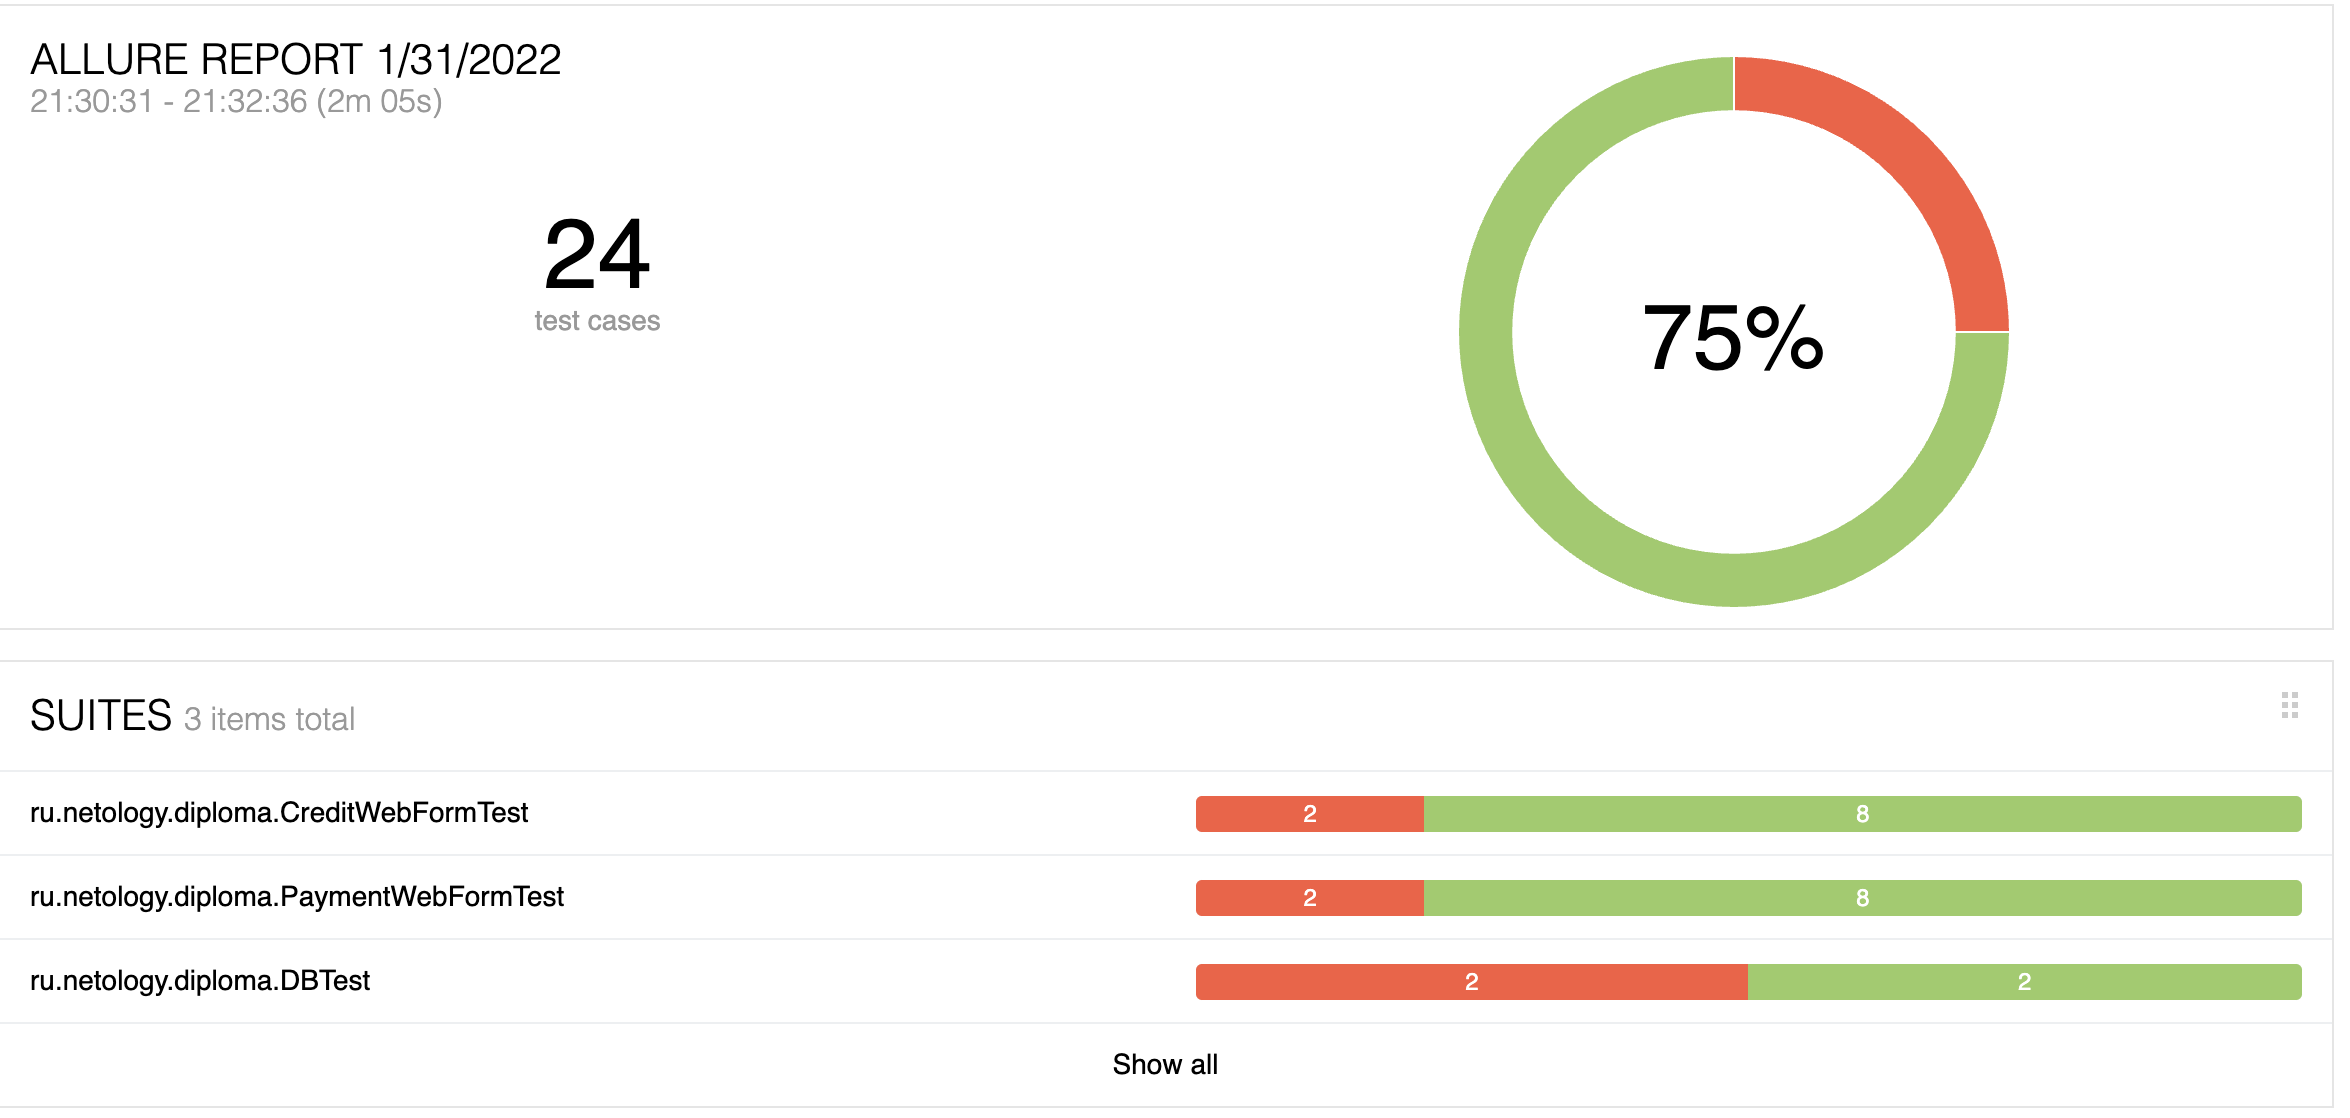
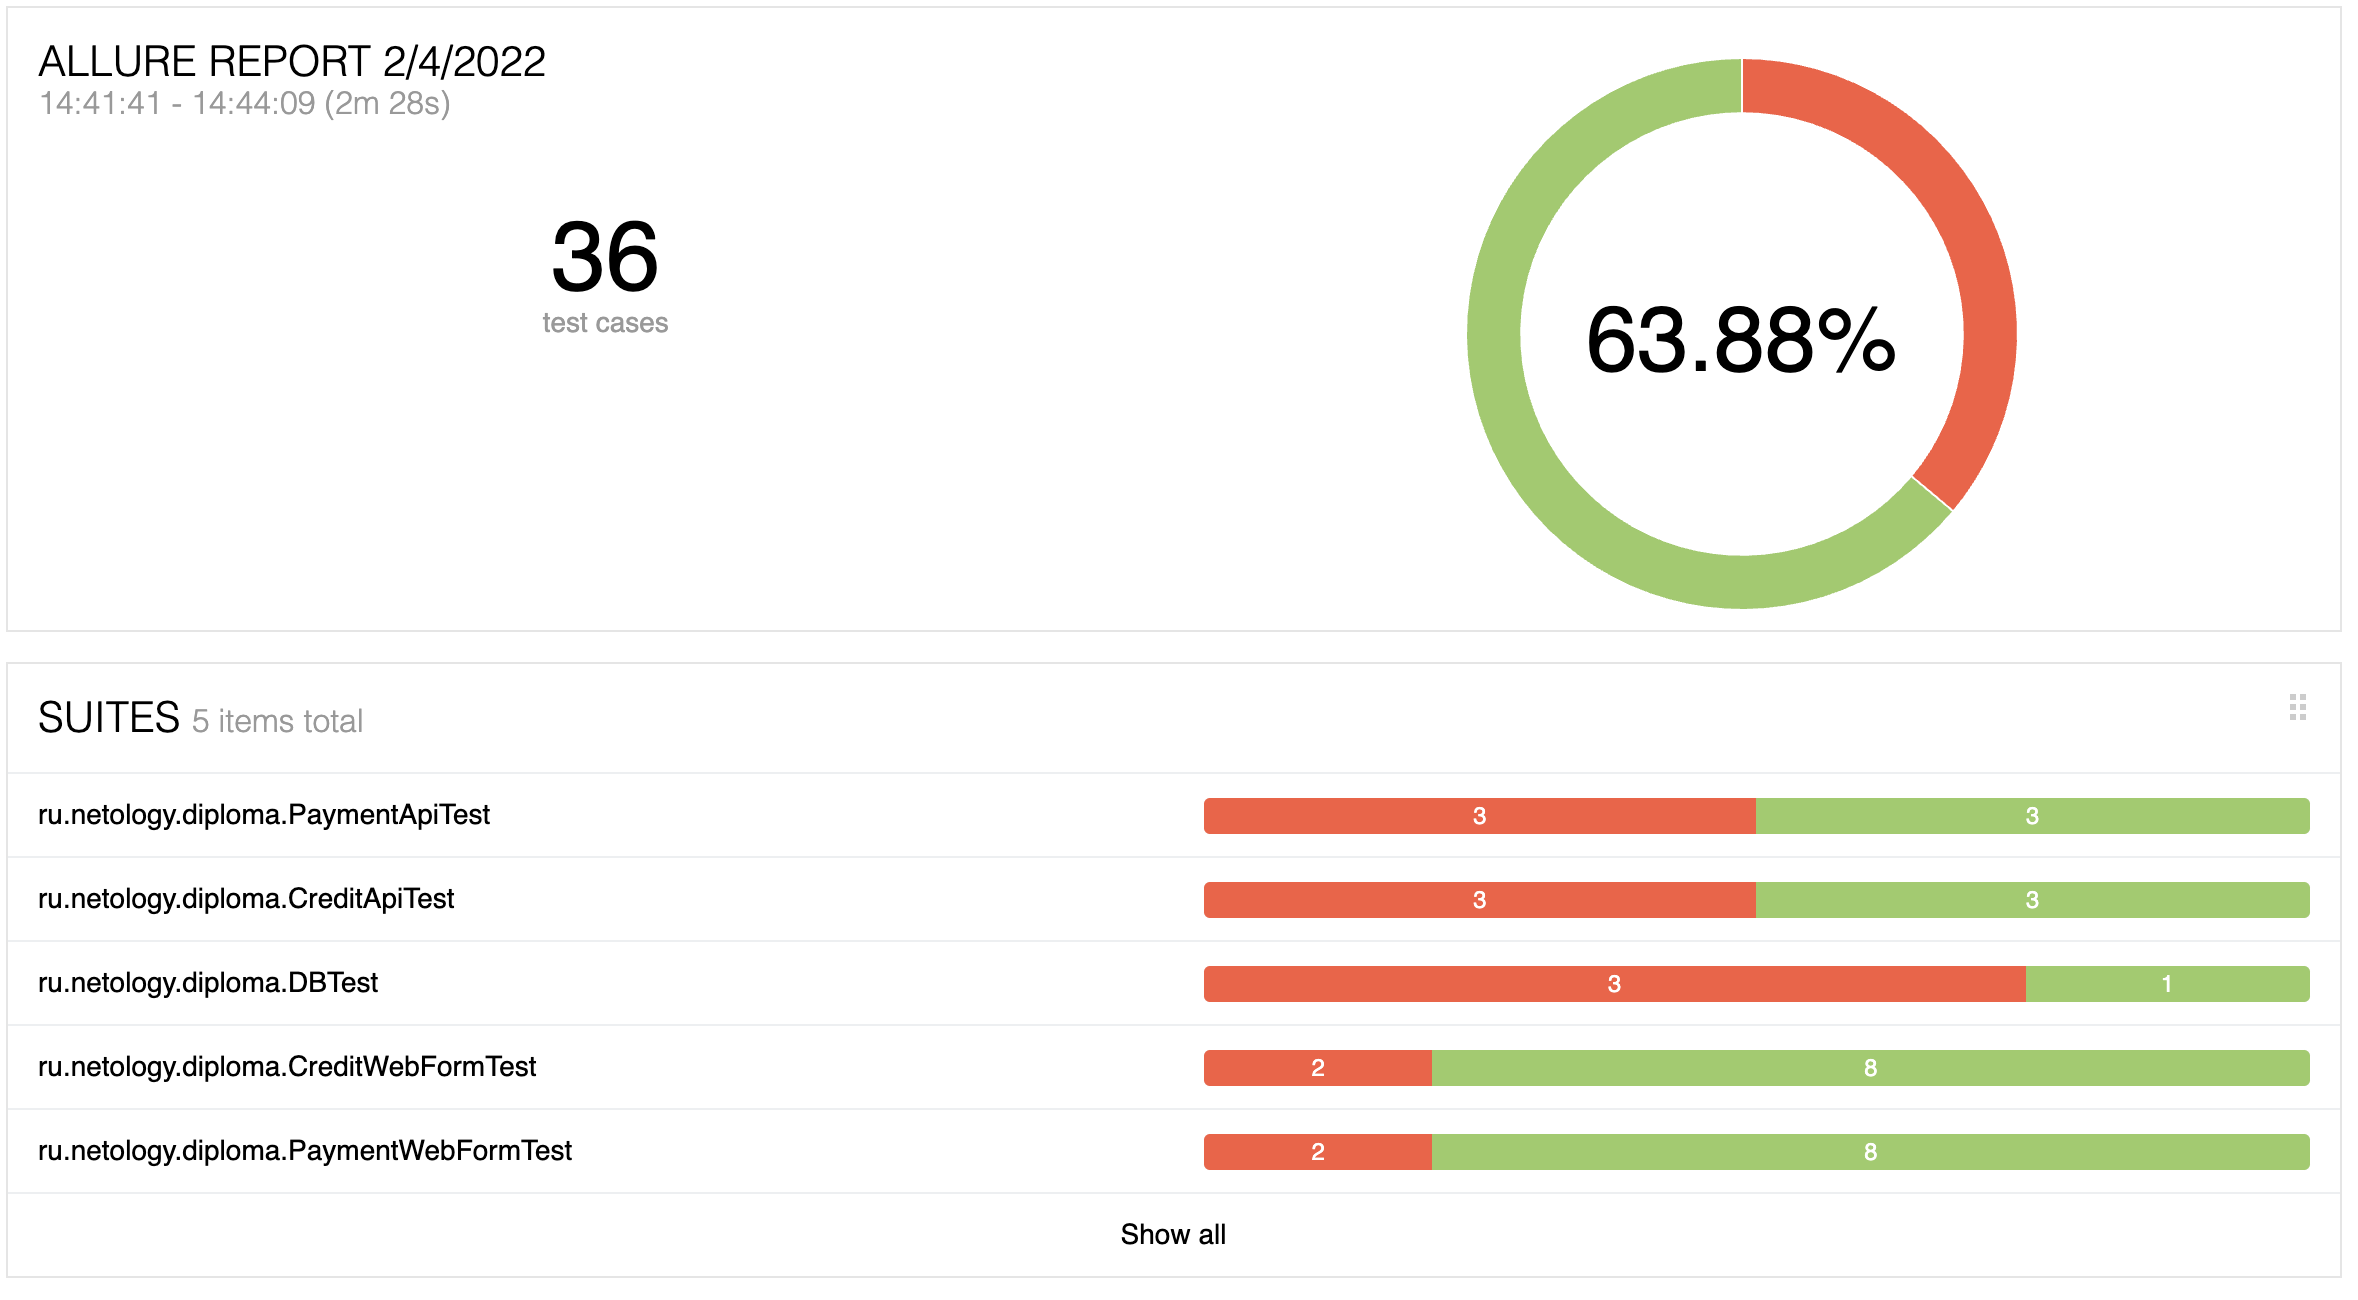
add rest api test; update report

diff --git a/src/test/java/ru/netology/diploma/CreditApiTest.java b/src/test/java/ru/netology/diploma/CreditApiTest.java
@@ -1,0 +1,109 @@
+package ru.netology.diploma;
+
+import io.restassured.http.ContentType;
+import org.junit.jupiter.api.BeforeEach;
+import org.junit.jupiter.api.Test;
+import ru.netology.diploma.model.ApiRequest;
+
+import static io.restassured.RestAssured.given;
+import static org.hamcrest.Matchers.equalTo;
+
+class CreditApiTest {
+    private ApiRequest successRequestBody;
+
+    @BeforeEach
+    void init() {
+        successRequestBody = ApiRequest.builder()
+                .number("4444 4444 4444 4441")
+                .year("23")
+                .month("09")
+                .cvc("123")
+                .holder("IVAN IVANOV")
+                .build();
+    }
+    @Test
+    void successfulCreditRequestTest() {
+        given()
+                .baseUri("http://localhost:8080")
+                .when()
+                .body(successRequestBody)
+                .header("Content-Type", "application/json")
+                .header("Accept",  "*/*")
+                .post("/api/v1/credit")
+                .then()
+                .statusCode(200)
+                .body("status", equalTo("APPROVED"))
+                .contentType(ContentType.JSON);
+    }
+    @Test
+    void unsuccessfulCreditRequestTest() {
+        successRequestBody.setNumber("4444 4444 4444 4442");
+        given()
+                .baseUri("http://localhost:8080")
+                .when()
+                .body(successRequestBody)
+                .header("Content-Type", "application/json")
+                .header("Accept",  "*/*")
+                .post("/api/v1/credit")
+                .then()
+                .statusCode(200)
+                .body("status", equalTo("DECLINED"))
+                .contentType(ContentType.JSON);
+    }
+
+    @Test
+    void incorrectCardNumberCreditRequestTest() {
+        successRequestBody.setNumber("4444 4444 4XX4 4441");
+        given()
+                .baseUri("http://localhost:8080")
+                .when()
+                .body(successRequestBody)
+                .header("Content-Type", "application/json")
+                .header("Accept",  "*/*")
+                .post("/api/v1/credit")
+                .then()
+                .statusCode(500);
+    }
+
+    @Test
+    void incorrectYearCreditRequestTest() {
+        successRequestBody.setYear("19");
+        given()
+                .baseUri("http://localhost:8080")
+                .when()
+                .body(successRequestBody)
+                .header("Content-Type", "application/json")
+                .header("Accept",  "*/*")
+                .post("/api/v1/credit")
+                .then()
+                .statusCode(500);
+    }
+
+    @Test
+    void incorrectMonthCreditRequestTest() {
+        successRequestBody.setMonth("36");
+        given()
+                .baseUri("http://localhost:8080")
+                .when()
+                .body(successRequestBody)
+                .header("Content-Type", "application/json")
+                .header("Accept",  "*/*")
+                .post("/api/v1/credit")
+                .then()
+                .statusCode(500);
+    }
+
+    @Test
+    void incorrectCvcCreditRequestTest() {
+        successRequestBody.setCvc("36");
+        given()
+                .baseUri("http://localhost:8080")
+                .when()
+                .body(successRequestBody)
+                .header("Content-Type", "application/json")
+                .header("Accept",  "*/*")
+                .post("/api/v1/credit")
+                .then()
+                .statusCode(500);
+    }
+}

diff --git a/src/test/java/ru/netology/diploma/PaymentApiTest.java b/src/test/java/ru/netology/diploma/PaymentApiTest.java
@@ -1,0 +1,109 @@
+package ru.netology.diploma;
+
+import io.restassured.http.ContentType;
+import org.junit.jupiter.api.BeforeEach;
+import org.junit.jupiter.api.Test;
+import ru.netology.diploma.model.ApiRequest;
+
+import static io.restassured.RestAssured.given;
+import static org.hamcrest.Matchers.equalTo;
+
+class PaymentApiTest {
+    private ApiRequest successRequestBody;
+
+    @BeforeEach
+    void init() {
+        successRequestBody = ApiRequest.builder()
+                .number("4444 4444 4444 4441")
+                .year("23")
+                .month("09")
+                .cvc("123")
+                .holder("IVAN IVANOV")
+                .build();
+    }
+    @Test
+    void successfulRequestTest() {
+        given()
+                .baseUri("http://localhost:8080")
+                .when()
+                .body(successRequestBody)
+                .header("Content-Type", "application/json")
+                .header("Accept",  "*/*")
+                .post("/api/v1/pay")
+                .then()
+                .statusCode(200)
+                .body("status", equalTo("APPROVED"))
+                .contentType(ContentType.JSON);
+    }
+    @Test
+    void unsuccessfulRequestTest() {
+        successRequestBody.setNumber("4444 4444 4444 4442");
+        given()
+                .baseUri("http://localhost:8080")
+                .when()
+                .body(successRequestBody)
+                .header("Content-Type", "application/json")
+                .header("Accept",  "*/*")
+                .post("/api/v1/pay")
+                .then()
+                .statusCode(200)
+                .body("status", equalTo("DECLINED"))
+                .contentType(ContentType.JSON);
+    }
+
+    @Test
+    void incorrectCardNumberRequestTest() {
+        successRequestBody.setNumber("4444 4444 4XX4 4441");
+        given()
+                .baseUri("http://localhost:8080")
+                .when()
+                .body(successRequestBody)
+                .header("Content-Type", "application/json")
+                .header("Accept",  "*/*")
+                .post("/api/v1/pay")
+                .then()
+                .statusCode(500);
+    }
+
+    @Test
+    void incorrectYearRequestTest() {
+        successRequestBody.setYear("19");
+        given()
+                .baseUri("http://localhost:8080")
+                .when()
+                .body(successRequestBody)
+                .header("Content-Type", "application/json")
+                .header("Accept",  "*/*")
+                .post("/api/v1/pay")
+                .then()
+                .statusCode(500);
+    }
+
+    @Test
+    void incorrectMonthRequestTest() {
+        successRequestBody.setMonth("36");
+        given()
+                .baseUri("http://localhost:8080")
+                .when()
+                .body(successRequestBody)
+                .header("Content-Type", "application/json")
+                .header("Accept",  "*/*")
+                .post("/api/v1/pay")
+                .then()
+                .statusCode(500);
+    }
+
+    @Test
+    void incorrectCvcRequestTest() {
+        successRequestBody.setCvc(null);
+        given()
+                .baseUri("http://localhost:8080")
+                .when()
+                .body(successRequestBody)
+                .header("Content-Type", "application/json")
+                .header("Accept",  "*/*")
+                .post("/api/v1/pay")
+                .then()
+                .statusCode(500);
+    }
+}

diff --git a/src/test/java/ru/netology/diploma/CreditWebFormTest.java b/src/test/java/ru/netology/diploma/CreditWebFormTest.java
@@ -6,6 +6,9 @@ import org.junit.jupiter.api.Test;
 import org.junit.jupiter.params.ParameterizedTest;
 import org.junit.jupiter.params.provider.Arguments;
 import org.junit.jupiter.params.provider.MethodSource;
+import ru.netology.diploma.model.CreditFormPage;
+import ru.netology.diploma.model.FormFiller;
+import ru.netology.diploma.model.FormPage;
 
 import java.time.Duration;
 import java.util.stream.Stream;

diff --git a/src/test/java/ru/netology/diploma/model/ApiRequest.java b/src/test/java/ru/netology/diploma/model/ApiRequest.java
@@ -1,0 +1,18 @@
+package ru.netology.diploma.model;
+
+import lombok.AllArgsConstructor;
+import lombok.Builder;
+import lombok.Data;
+import lombok.NoArgsConstructor;
+
+@Data
+@Builder
+@AllArgsConstructor
+@NoArgsConstructor
+public class ApiRequest {
+    private String number;
+    private String year;
+    private String month;
+    private String holder;
+    private String cvc;
+}

diff --git a/src/test/java/ru/netology/diploma/PaymentWebFormTest.java b/src/test/java/ru/netology/diploma/PaymentWebFormTest.java
@@ -6,6 +6,8 @@ import org.junit.jupiter.api.Test;
 import org.junit.jupiter.params.ParameterizedTest;
 import org.junit.jupiter.params.provider.Arguments;
 import org.junit.jupiter.params.provider.MethodSource;
+import ru.netology.diploma.model.FormFiller;
+import ru.netology.diploma.model.FormPage;
 
 import java.time.Duration;
 import java.util.stream.Stream;

diff --git a/src/test/java/ru/netology/diploma/DBTest.java b/src/test/java/ru/netology/diploma/DBTest.java
@@ -8,6 +8,9 @@ import org.junit.jupiter.api.Test;
 import ru.netology.diploma.db.DBManager;
 import ru.netology.diploma.db.MySQLManager;
 import ru.netology.diploma.db.PostgresManager;
+import ru.netology.diploma.model.CreditFormPage;
+import ru.netology.diploma.model.FormFiller;
+import ru.netology.diploma.model.FormPage;
 
 import java.time.Duration;
 

diff --git a/src/test/java/ru/netology/diploma/model/FormPage.java b/src/test/java/ru/netology/diploma/model/FormPage.java
@@ -1,4 +1,4 @@
-package ru.netology.diploma;
+package ru.netology.diploma.model;
 
 import com.codeborne.selenide.SelenideElement;
 import lombok.Getter;

diff --git a/src/test/java/ru/netology/diploma/model/FormFiller.java b/src/test/java/ru/netology/diploma/model/FormFiller.java
@@ -1,4 +1,4 @@
-package ru.netology.diploma;
+package ru.netology.diploma.model;
 
 import lombok.AllArgsConstructor;
 import lombok.Builder;

diff --git a/src/test/java/ru/netology/diploma/model/CreditFormPage.java b/src/test/java/ru/netology/diploma/model/CreditFormPage.java
@@ -1,4 +1,4 @@
-package ru.netology.diploma;
+package ru.netology.diploma.model;
 
 import com.codeborne.selenide.SelenideElement;
 

diff --git a/report/REPORT.md b/report/REPORT.md
@@ -1,10 +1,12 @@
 # Отчет о тестировании
  - Было проведено тестирование функционала продажи тура, а также выдачи кредита по данным карты через форму на веб-странице
- - В результате тестирования были написаны автотесты на 24 тест-кейса. 
- - 18 тест-кейсов пройдены успешно, 6 упали с ошибками. По результатам тестирования заведены issue:
+ - В результате тестирования были написаны автотесты на 36 тест-кейсов. 
+ - 23 тест-кейса пройдены успешно, 13 упали с ошибками. По результатам тестирования заведены issue:
    - [Не исчезает предупреждение о неверном формате cvc/cvv после ввода корректного значения](https://github.com/ElenaPatrusheva/diploma/issues/1)
    - [Не исчезает предупреждение о неверно введенном cvc/cvv после ввода корректного значения в форме покупки в кредит](https://github.com/ElenaPatrusheva/diploma/issues/2)
    - [Покупка по карте отображается как успешная, однако в бд записывается отказ](https://github.com/ElenaPatrusheva/diploma/issues/3)
+   - [Отсутствие валидации полей формы на стороне сервера](https://github.com/ElenaPatrusheva/diploma/issues/4)
  - Ошибка с отображением успешной покупки аффектит 4 упавших теста и, очевидно, имеет высокий приоритет
+ - Судя по тестированию рест-АПИ, отсутствует валидация полей на стороне сервера
  - Работа с Postgres и MySQL выполняется одинаково (с одной и той же ошибкой).
  - Общую картину по выполнению можно увидеть на скриншотах отчета Allure, которые лежат в этой же папке
